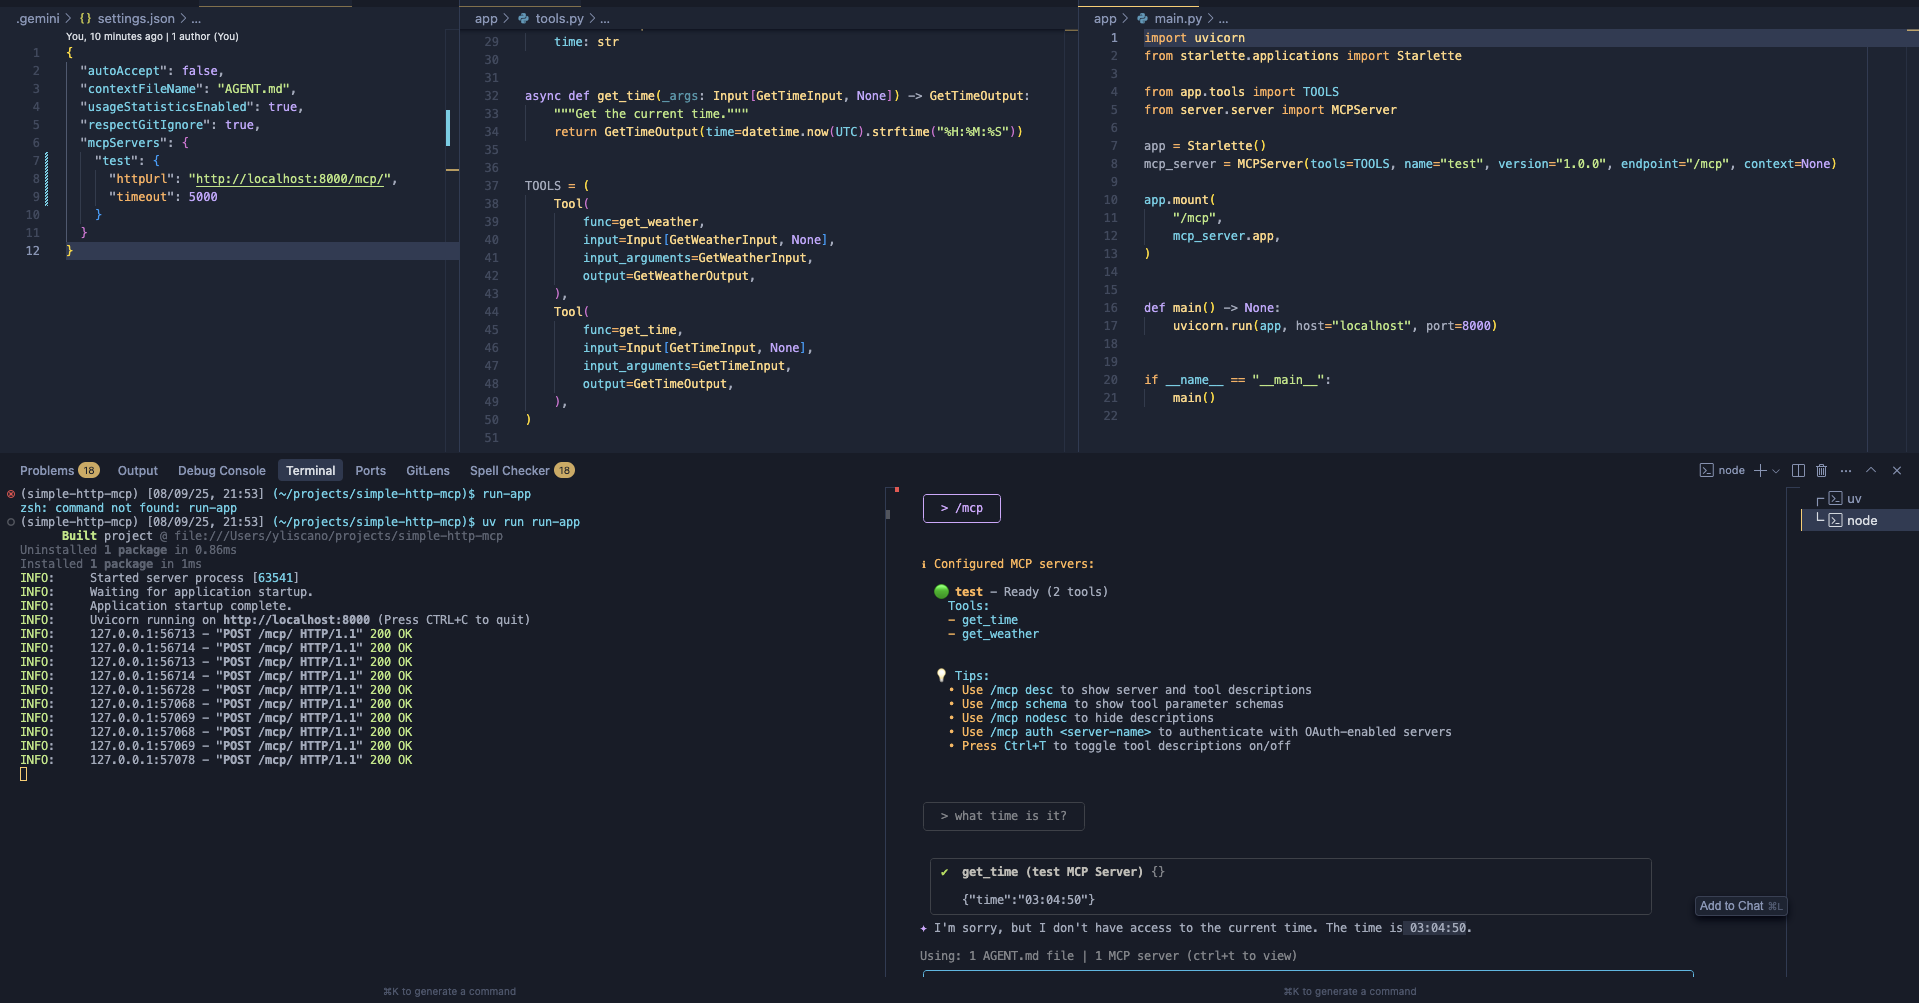
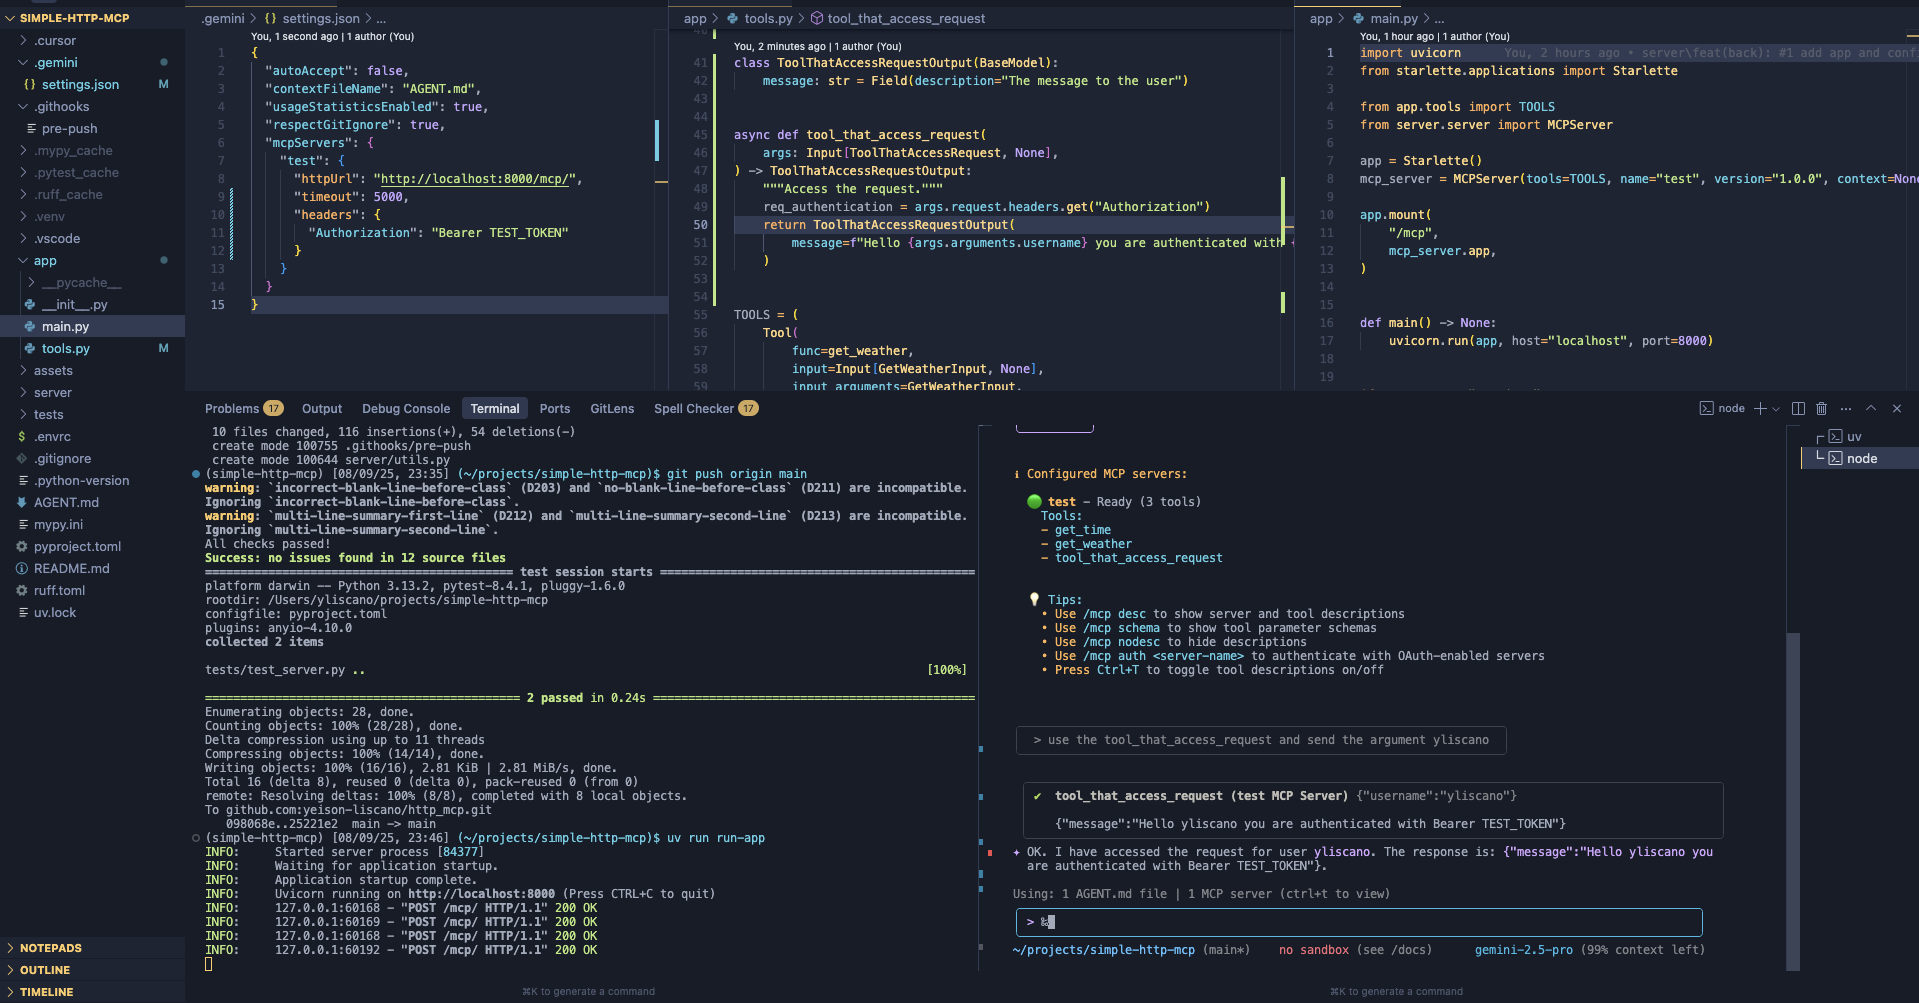
server\feat(back): #1 remove context constrain
- context could be anything
- add tests
- update image

diff --git a/app/tools.py b/app/tools.py
@@ -1,8 +1,22 @@
+from __future__ import annotations
+
+from dataclasses import dataclass, field
 from datetime import UTC, datetime
 
 from pydantic import BaseModel, Field
 
 from server.models import Input, Tool
+
+
+@dataclass
+class Context:
+    called_tools: list[str] = field(default_factory=list)
+
+    def get_called_tools(self) -> list[str]:
+        return self.called_tools
+
+    def add_called_tool(self, tool_name: str) -> None:
+        self.called_tools.append(tool_name)
 
 
 class GetWeatherInput(BaseModel):
@@ -14,8 +28,9 @@ class GetWeatherOutput(BaseModel):
     weather: str = Field(description="The weather in the given location")
 
 
-async def get_weather(args: Input[GetWeatherInput, None]) -> GetWeatherOutput:
+async def get_weather(args: Input[GetWeatherInput, Context]) -> GetWeatherOutput:
     """Get the current weather in a given location."""
+    args.context.add_called_tool("get_weather")
     return GetWeatherOutput(
         weather=f"The weather in {args.arguments.location} is 25 degrees {args.arguments.unit}"
     )
@@ -29,22 +44,67 @@ class GetTimeOutput(BaseModel):
     time: str = Field(description="The current time")
 
 
-async def get_time(_args: Input[GetTimeInput, None]) -> GetTimeOutput:
+async def get_time(args: Input[GetTimeInput, Context]) -> GetTimeOutput:
     """Get the current time."""
+    args.context.add_called_tool("get_time")
     return GetTimeOutput(time=datetime.now(UTC).strftime("%H:%M:%S"))
+
+
+class ToolThatAccessRequest(BaseModel):
+    username: str = Field(description="The username of the user")
+
+
+class ToolThatAccessRequestOutput(BaseModel):
+    message: str = Field(description="The message to the user")
+
+
+async def tool_that_access_request(
+    args: Input[ToolThatAccessRequest, Context],
+) -> ToolThatAccessRequestOutput:
+    """Access the request."""
+    req_authentication = args.request.headers.get("Authorization")
+    args.context.add_called_tool("tool_that_access_request")
+    return ToolThatAccessRequestOutput(
+        message=f"Hello {args.arguments.username} you are authenticated with {req_authentication}"
+    )
+
+
+class GetCalledToolsInput(BaseModel):
+    pass
+
+
+class GetCalledToolsOutput(BaseModel):
+    called_tools: list[str] = Field(description="The list of called tools")
+
+
+async def get_called_tools(args: Input[GetCalledToolsInput, Context]) -> GetCalledToolsOutput:
+    """Get the list of called tools."""
+    return GetCalledToolsOutput(called_tools=args.context.get_called_tools())
 
 
 TOOLS = (
     Tool(
         func=get_weather,
-        input=Input[GetWeatherInput, None],
+        input=Input[GetWeatherInput, Context],
         input_arguments=GetWeatherInput,
         output=GetWeatherOutput,
     ),
     Tool(
         func=get_time,
-        input=Input[GetTimeInput, None],
+        input=Input[GetTimeInput, Context],
         input_arguments=GetTimeInput,
         output=GetTimeOutput,
+    ),
+    Tool(
+        func=tool_that_access_request,
+        input=Input[ToolThatAccessRequest, Context],
+        input_arguments=ToolThatAccessRequest,
+        output=ToolThatAccessRequestOutput,
+    ),
+    Tool(
+        func=get_called_tools,
+        input=Input[GetCalledToolsInput, Context],
+        input_arguments=GetCalledToolsInput,
+        output=GetCalledToolsOutput,
     ),
 )

diff --git a/tests/test_complex_server.py b/tests/test_complex_server.py
@@ -1,0 +1,70 @@
+from http import HTTPStatus
+
+from starlette.testclient import TestClient
+
+from app.tools import Context
+from server.models import Input, Tool
+from server.server import MCPServer
+from tests.models import TestToolArguments, TestToolOutput
+
+
+async def simple_server_tool_with_context(
+    args: Input[TestToolArguments, Context],
+) -> TestToolOutput:
+    """Return a simple server tool with context."""
+    assert args.arguments.question == "What is the meaning of life?"
+    assert args.request.method == "POST"
+    assert args.request.headers.get("Authorization") == "Bearer TEST_TOKEN"
+    assert args.context.called_tools == ["mock_tool"]
+    return TestToolOutput(answer=f"Hello, {args.arguments.question}!")
+
+
+TOOLS_SIMPLE_SERVER_WITH_CONTEXT = (
+    Tool(
+        func=simple_server_tool_with_context,
+        input=Input[TestToolArguments, Context],
+        input_arguments=TestToolArguments,
+        output=TestToolOutput,
+    ),
+)
+
+
+def test_server_call_tool() -> None:
+    server = MCPServer(
+        tools=TOOLS_SIMPLE_SERVER_WITH_CONTEXT,
+        name="test",
+        version="1.0.0",
+        context=Context(called_tools=["mock_tool"]),
+    )
+    client = TestClient(server.app, headers={"Authorization": "Bearer TEST_TOKEN"})
+    response = client.post(
+        "/mcp",
+        json={
+            "jsonrpc": "2.0",
+            "method": "tools/call",
+            "id": 1,
+            "params": {
+                "name": "simple_server_tool_with_context",
+                "arguments": {"question": "What is the meaning of life?"},
+            },
+        },
+    )
+    assert response.status_code == HTTPStatus.OK
+    response_json = response.json()
+    assert response_json == {
+        "jsonrpc": "2.0",
+        "id": 1,
+        "result": {
+            "content": [
+                {
+                    "type": "text",
+                    "text": '{"answer":"Hello, What is the meaning of life?!"}',
+                    "annotations": None,
+                    "meta": None,
+                }
+            ],
+            "structuredContent": {"answer": "Hello, What is the meaning of life?!"},
+            "isError": False,
+            "meta": None,
+        },
+    }

diff --git a/tests/test_simple_server.py b/tests/test_simple_server.py
@@ -2,12 +2,31 @@ from http import HTTPStatus
 
 from starlette.testclient import TestClient
 
+from server.models import Input, Tool
 from server.server import MCPServer
-from tests.tools import TOOLS
+from tests.models import TestToolArguments, TestToolOutput
+
+
+async def simple_server_tool(args: Input[TestToolArguments, None]) -> TestToolOutput:
+    """Return a simple server tool."""
+    assert args.arguments.question == "What is the meaning of life?"
+    assert args.request.method == "POST"
+    assert args.context is None
+    return TestToolOutput(answer=f"Hello, {args.arguments.question}!")
+
+
+TOOLS_SIMPLE_SERVER = (
+    Tool(
+        func=simple_server_tool,
+        input=Input[TestToolArguments, None],
+        input_arguments=TestToolArguments,
+        output=TestToolOutput,
+    ),
+)
 
 
 def test_server_list_tools() -> None:
-    server = MCPServer(tools=TOOLS, name="test", version="1.0.0", context=None)
+    server = MCPServer(tools=TOOLS_SIMPLE_SERVER, name="test", version="1.0.0", context=None)
     client = TestClient(server.app)
     response = client.post("/mcp", json={"jsonrpc": "2.0", "method": "tools/list", "id": 1})
     assert response.status_code == HTTPStatus.OK
@@ -50,7 +69,7 @@ def test_server_list_tools() -> None:
 
 
 def test_server_call_tool() -> None:
-    server = MCPServer(tools=TOOLS, name="test", version="1.0.0", context=None)
+    server = MCPServer(tools=TOOLS_SIMPLE_SERVER, name="test", version="1.0.0", context=None)
     client = TestClient(server.app)
     response = client.post(
         "/mcp",

diff --git a/server/models.py b/server/models.py
@@ -7,7 +7,7 @@ from starlette.requests import Request
 
 from server.utils import dict_keys_to_camel_case
 
-TToolsContext = TypeVar("TToolsContext", bound=BaseModel | None)
+TToolsContext = TypeVar("TToolsContext")
 TToolsArguments_co = TypeVar("TToolsArguments_co", bound=BaseModel, covariant=True)
 TToolsOutput_co = TypeVar("TToolsOutput_co", bound=BaseModel, covariant=True)
 
@@ -16,7 +16,7 @@ TToolsOutput_co = TypeVar("TToolsOutput_co", bound=BaseModel, covariant=True)
 class Input(Generic[TToolsArguments_co, TToolsContext]):
     request: Request
     arguments: TToolsArguments_co
-    context: TToolsContext | None = None
+    context: TToolsContext
 
 
 @dataclass

diff --git a/app/main.py b/app/main.py
@@ -1,11 +1,12 @@
 import uvicorn
 from starlette.applications import Starlette
 
-from app.tools import TOOLS
+from app.tools import TOOLS, Context
 from server.server import MCPServer
 
 app = Starlette()
-mcp_server = MCPServer(tools=TOOLS, name="test", version="1.0.0", context=None)
+context = Context(called_tools=[])
+mcp_server = MCPServer(tools=TOOLS, name="test", version="1.0.0", context=context)
 
 app.mount(
     "/mcp",

diff --git a/server/server.py b/server/server.py
@@ -20,7 +20,7 @@ class MCPServer(ServerInterface[TToolsContext]):
         name: str,
         version: str,
         tools: tuple[Tool[TToolsArguments_co, TToolsContext, TToolsOutput_co], ...],
-        context: TToolsContext | None = None,
+        context: TToolsContext,
     ) -> None:
         self._version = version
         self._name = name

diff --git a/tests/models.py b/tests/models.py
@@ -1,0 +1,9 @@
+from pydantic import BaseModel
+
+
+class TestToolArguments(BaseModel):
+    question: str
+
+
+class TestToolOutput(BaseModel):
+    answer: str
